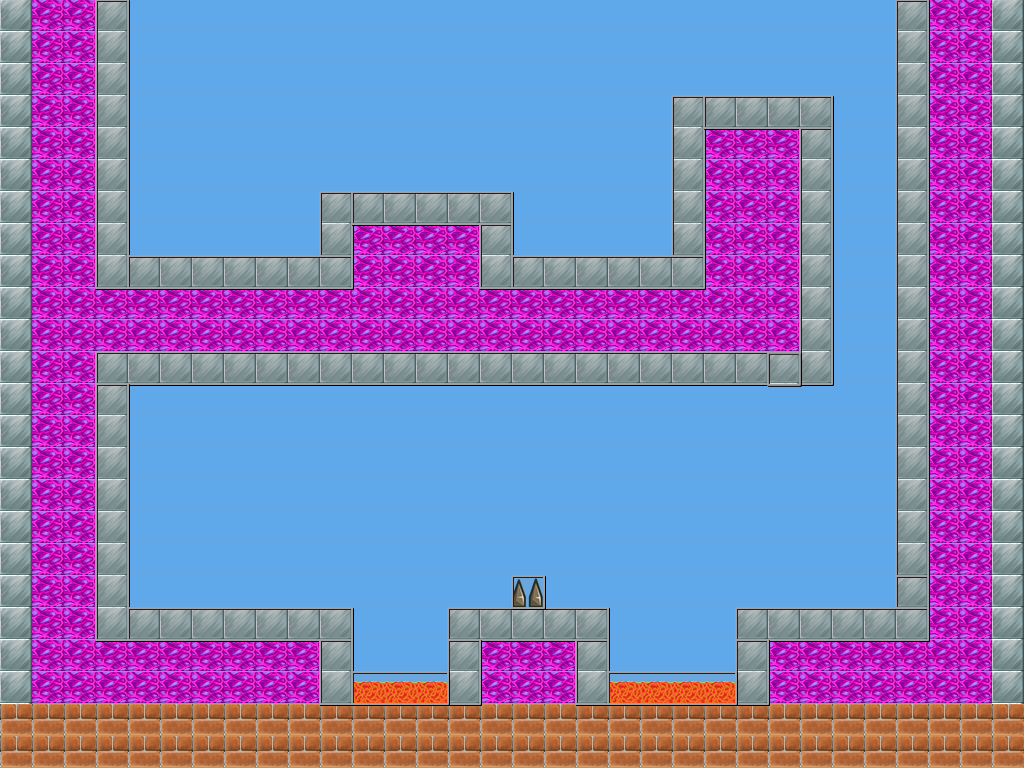
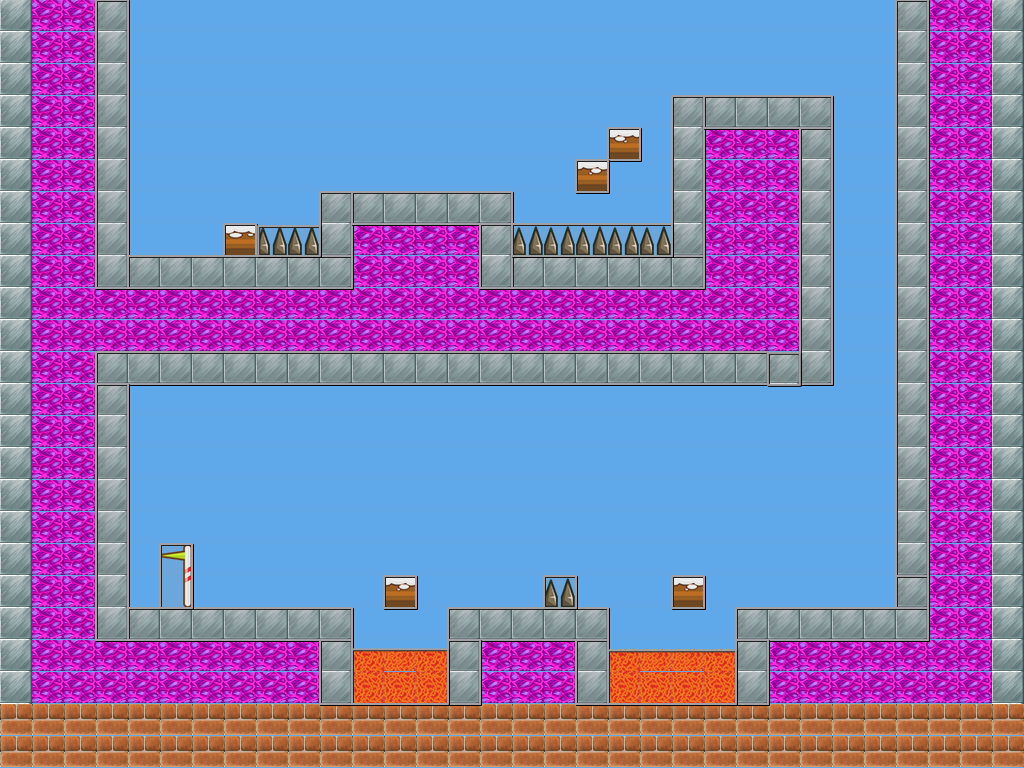
avances y mucha paja
tratando de que cuando fumiko colisione, él se muera

diff --git a/core/assets/PC_Computer_-_RPG_Maker_VX_-_Tile_A1-A5.tsx b/core/assets/PC_Computer_-_RPG_Maker_VX_-_Tile_A1-A5.tsx
@@ -1,0 +1,4 @@
+<?xml version="1.0" encoding="UTF-8"?>
+<tileset version="1.5" tiledversion="1.7.2" name="PC Computer - RPG Maker VX - Tile A1-A5" tilewidth="32" tileheight="32" tilecount="1152" columns="32">
+ <image source="PC_Computer_-_RPG_Maker_VX_-_Tile_A1-A5.png" width="1030" height="1164"/>
+</tileset>

diff --git a/core/assets/Background_01.tsx b/core/assets/Background_01.tsx
@@ -1,0 +1,4 @@
+<?xml version="1.0" encoding="UTF-8"?>
+<tileset version="1.5" tiledversion="1.7.2" name="Background_01" tilewidth="32" tileheight="32" tilecount="943" columns="41">
+ <image source="Background_01.png" width="1334" height="750"/>
+</tileset>

diff --git a/core/src/com/garaperree/guazo/utiles/WorldContactListener.java b/core/src/com/garaperree/guazo/utiles/WorldContactListener.java
@@ -6,7 +6,10 @@ import com.badlogic.gdx.physics.box2d.ContactImpulse;
 import com.badlogic.gdx.physics.box2d.ContactListener;
 import com.badlogic.gdx.physics.box2d.Fixture;
 import com.badlogic.gdx.physics.box2d.Manifold;
+import com.garaperree.guazo.Main;
+import com.garaperree.guazo.sprites.Fumiko;
 import com.garaperree.guazo.sprites.ObjetosInteractivos;
+import com.garaperree.guazo.sprites.Pinches;
 
 public class WorldContactListener implements ContactListener {
 
@@ -21,53 +24,13 @@ public class WorldContactListener implements ContactListener {
 		
 		
 //		switch (cDef){
-//        case Main.MARIO_HEAD_BIT | MarioBros.COIN_BIT:
-//            if(fixA.getFilterData().categoryBits == MarioBros.MARIO_HEAD_BIT)
-//                ((InteractiveTileObject) fixB.getUserData()).onHeadHit((Mario) fixA.getUserData());
-//            else
-//                ((InteractiveTileObject) fixA.getUserData()).onHeadHit((Mario) fixB.getUserData());
-//            break;
-//        case MarioBros.ENEMY_HEAD_BIT | MarioBros.MARIO_BIT:
-//            if(fixA.getFilterData().categoryBits == MarioBros.ENEMY_HEAD_BIT)
-//                ((Enemy)fixA.getUserData()).hitOnHead((Mario) fixB.getUserData());
-//            else
-//                ((Enemy)fixB.getUserData()).hitOnHead((Mario) fixA.getUserData());
-//            break;
-//        case MarioBros.ENEMY_BIT | MarioBros.OBJECT_BIT:
-//            if(fixA.getFilterData().categoryBits == MarioBros.ENEMY_BIT)
-//                ((Enemy)fixA.getUserData()).reverseVelocity(true, false);
-//            else
-//                ((Enemy)fixB.getUserData()).reverseVelocity(true, false);
-//            break;
-//        case MarioBros.MARIO_BIT | MarioBros.ENEMY_BIT:
-//            if(fixA.getFilterData().categoryBits == MarioBros.MARIO_BIT)
-//                ((Mario) fixA.getUserData()).hit((Enemy)fixB.getUserData());
-//            else
-//                ((Mario) fixB.getUserData()).hit((Enemy)fixA.getUserData());
-//            break;
-//        case MarioBros.ENEMY_BIT | MarioBros.ENEMY_BIT:
-//            ((Enemy)fixA.getUserData()).hitByEnemy((Enemy)fixB.getUserData());
-//            ((Enemy)fixB.getUserData()).hitByEnemy((Enemy)fixA.getUserData());
-//            break;
-//        case MarioBros.ITEM_BIT | MarioBros.OBJECT_BIT:
-//            if(fixA.getFilterData().categoryBits == MarioBros.ITEM_BIT)
-//                ((Item)fixA.getUserData()).reverseVelocity(true, false);
-//            else
-//                ((Item)fixB.getUserData()).reverseVelocity(true, false);
-//            break;
-//        case MarioBros.ITEM_BIT | MarioBros.MARIO_BIT:
-//            if(fixA.getFilterData().categoryBits == MarioBros.ITEM_BIT)
-//                ((Item)fixA.getUserData()).use((Mario) fixB.getUserData());
-//            else
-//                ((Item)fixB.getUserData()).use((Mario) fixA.getUserData());
-//            break;
-//        case MarioBros.FIREBALL_BIT | MarioBros.OBJECT_BIT:
-//            if(fixA.getFilterData().categoryBits == MarioBros.FIREBALL_BIT)
-//                ((FireBall)fixA.getUserData()).setToDestroy();
-//            else
-//                ((FireBall)fixB.getUserData()).setToDestroy();
-//            break;
-//    }
+//	        case Main.FUMIKO_BIT | Main.PINCHES_BIT:
+//	            if(fixA.getFilterData().categoryBits == Main.FUMIKO_BIT)
+//	                ((Fumiko)fixA.getUserData()).hit();
+//	            else
+//	                ((Fumiko)fixB.getUserData()).hit();
+//	            break;
+//		}
 		
 			//derecha
 			if((fixA.getUserData() == "head1" || fixB.getUserData() == "head1")) {
@@ -75,7 +38,7 @@ public class WorldContactListener implements ContactListener {
 				Fixture object = head1 == fixA ? fixB : fixA;
 				
 				if(object.getUserData() != null && ObjetosInteractivos.class.isAssignableFrom(object.getUserData().getClass())) {
-					((ObjetosInteractivos) object.getUserData()).onHeadHit();
+					((Fumiko) object.getUserData()).hit();
 				}
 				
 			}
@@ -97,7 +60,7 @@ public class WorldContactListener implements ContactListener {
 				Fixture object = abajo == fixA ? fixB : fixA;
 				
 				if(object.getUserData() != null && ObjetosInteractivos.class.isAssignableFrom(object.getUserData().getClass())) {
-					((ObjetosInteractivos) object.getUserData()).onHeadHit();
+					((Fumiko) object.getUserData()).hit();
 				}
 				
 			}

diff --git a/core/src/com/garaperree/guazo/sprites/Fumiko.java b/core/src/com/garaperree/guazo/sprites/Fumiko.java
@@ -1,6 +1,7 @@
 package com.garaperree.guazo.sprites;
 
 import com.badlogic.gdx.audio.Music;
+import com.badlogic.gdx.audio.Sound;
 import com.badlogic.gdx.graphics.g2d.Animation;
 import com.badlogic.gdx.graphics.g2d.Sprite;
 import com.badlogic.gdx.graphics.g2d.TextureRegion;
@@ -155,14 +156,10 @@ public class Fumiko extends Sprite{
 	}
 	
 	public void hit(){
-        die();
-    }
-
-	private void die() {
 		if (!isDeadFumiko()) {
-
+			System.out.println("Puto!");
 			Main.manager.get("audio/music/MatWyre_Deep_Dawn.mp3", Music.class).stop();
-//            Main.manager.get("audio/sounds/mariodie.wav", Sound.class).play();
+//          Main.manager.get("audio/sounds/muere.wav", Sound.class).play();
             fumikoIsDead = true;
             Filter filter = new Filter();
             filter.maskBits = Main.NOTHING_BIT;
@@ -172,7 +169,7 @@ public class Fumiko extends Sprite{
             }
             b2body.applyLinearImpulse(new Vector2(0, 4f), b2body.getWorldCenter(), true);
         }
-	}
+    }
 	
 	public void jump(){
         if ( currentState != State.JUMPING ) {

diff --git a/core/src/com/garaperree/guazo/Main.java b/core/src/com/garaperree/guazo/Main.java
@@ -3,6 +3,7 @@ package com.garaperree.guazo;
 import com.badlogic.gdx.Game;
 import com.badlogic.gdx.assets.AssetManager;
 import com.badlogic.gdx.audio.Music;
+import com.badlogic.gdx.audio.Sound;
 import com.badlogic.gdx.graphics.g2d.SpriteBatch;
 import com.garaperree.guazo.pantallas.PantallaJuego;
 

diff --git a/core/src/com/garaperree/guazo/escenas/Hud.java b/core/src/com/garaperree/guazo/escenas/Hud.java
@@ -38,7 +38,7 @@ public class Hud implements Disposable{
 		//TODO como hacer para que el hud se quede quieto
 		
 		// Variables
-		worldTimer = 2;
+		worldTimer = 50;
 		timeCount = 0;
 		nivel = 1;
 
